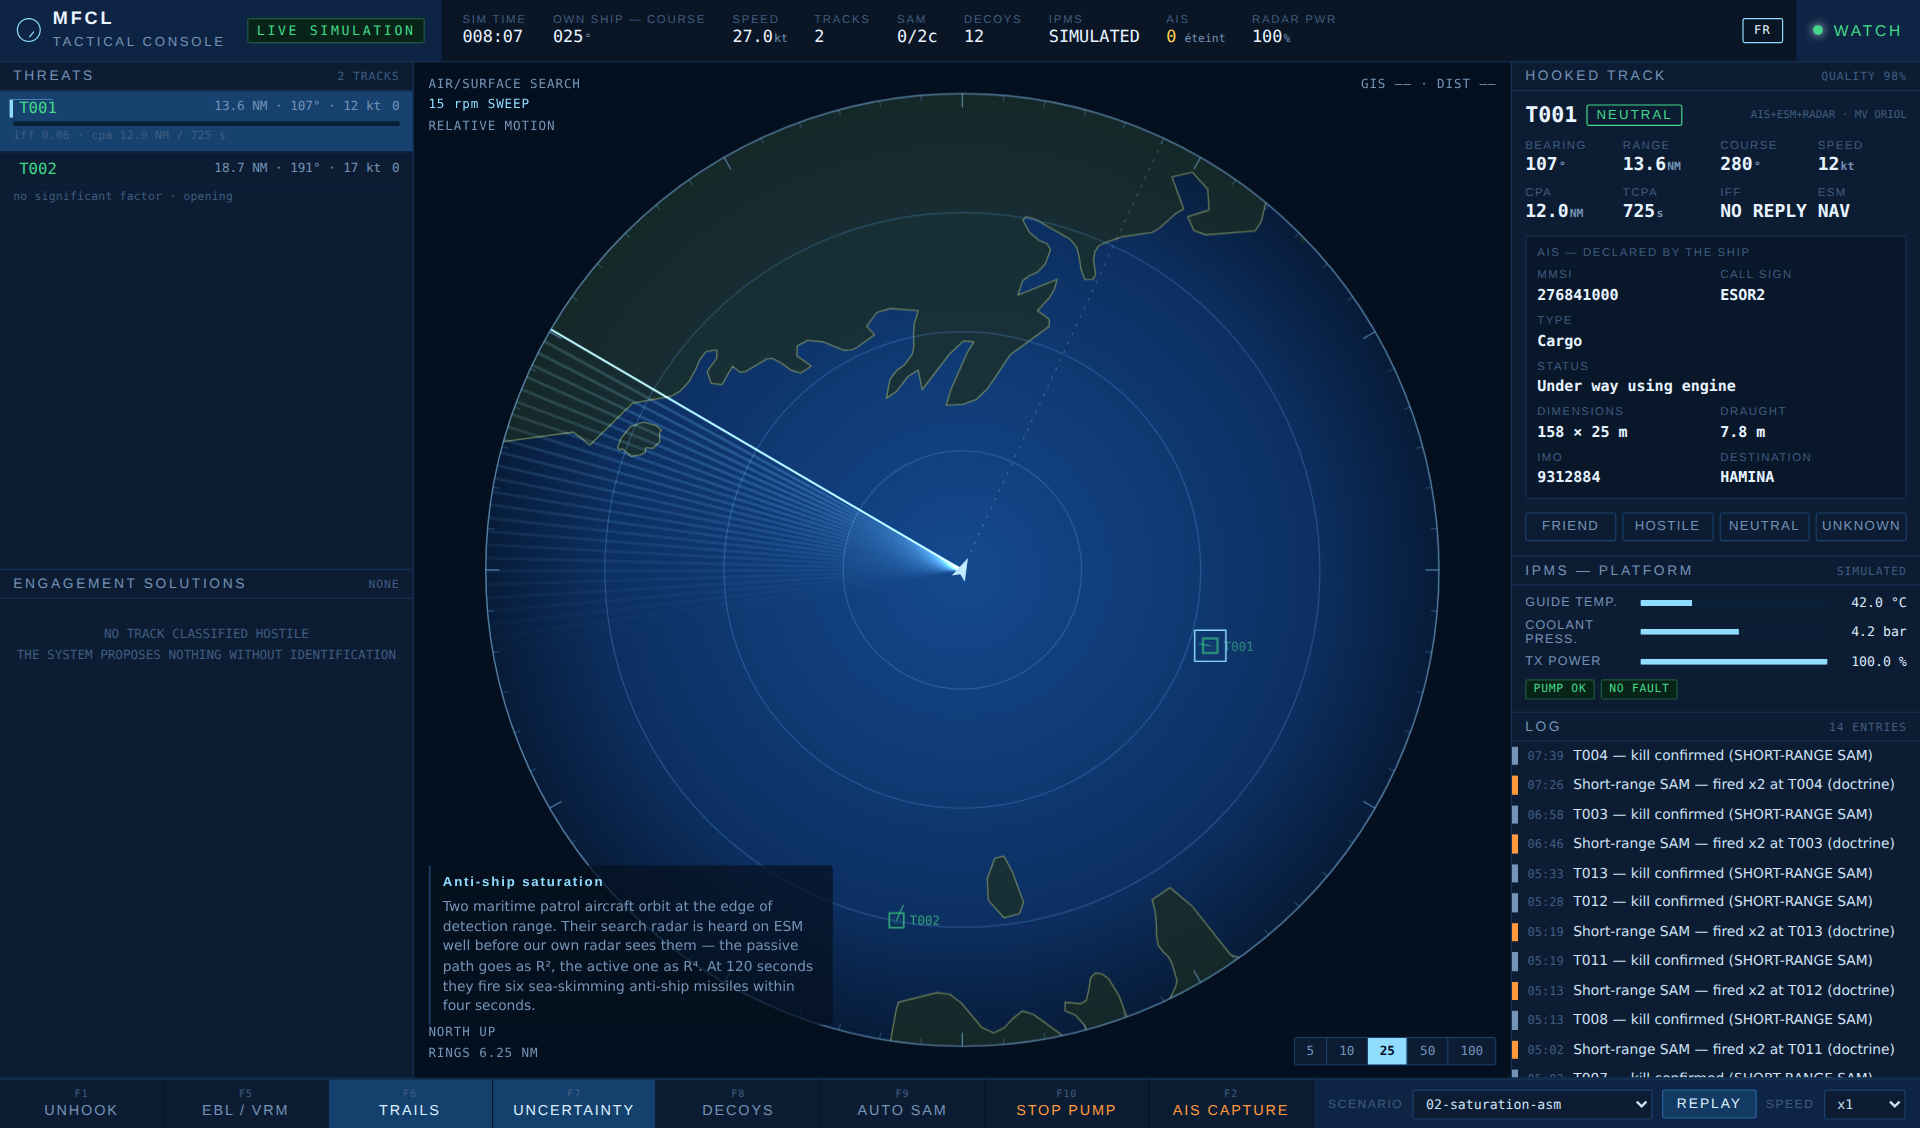
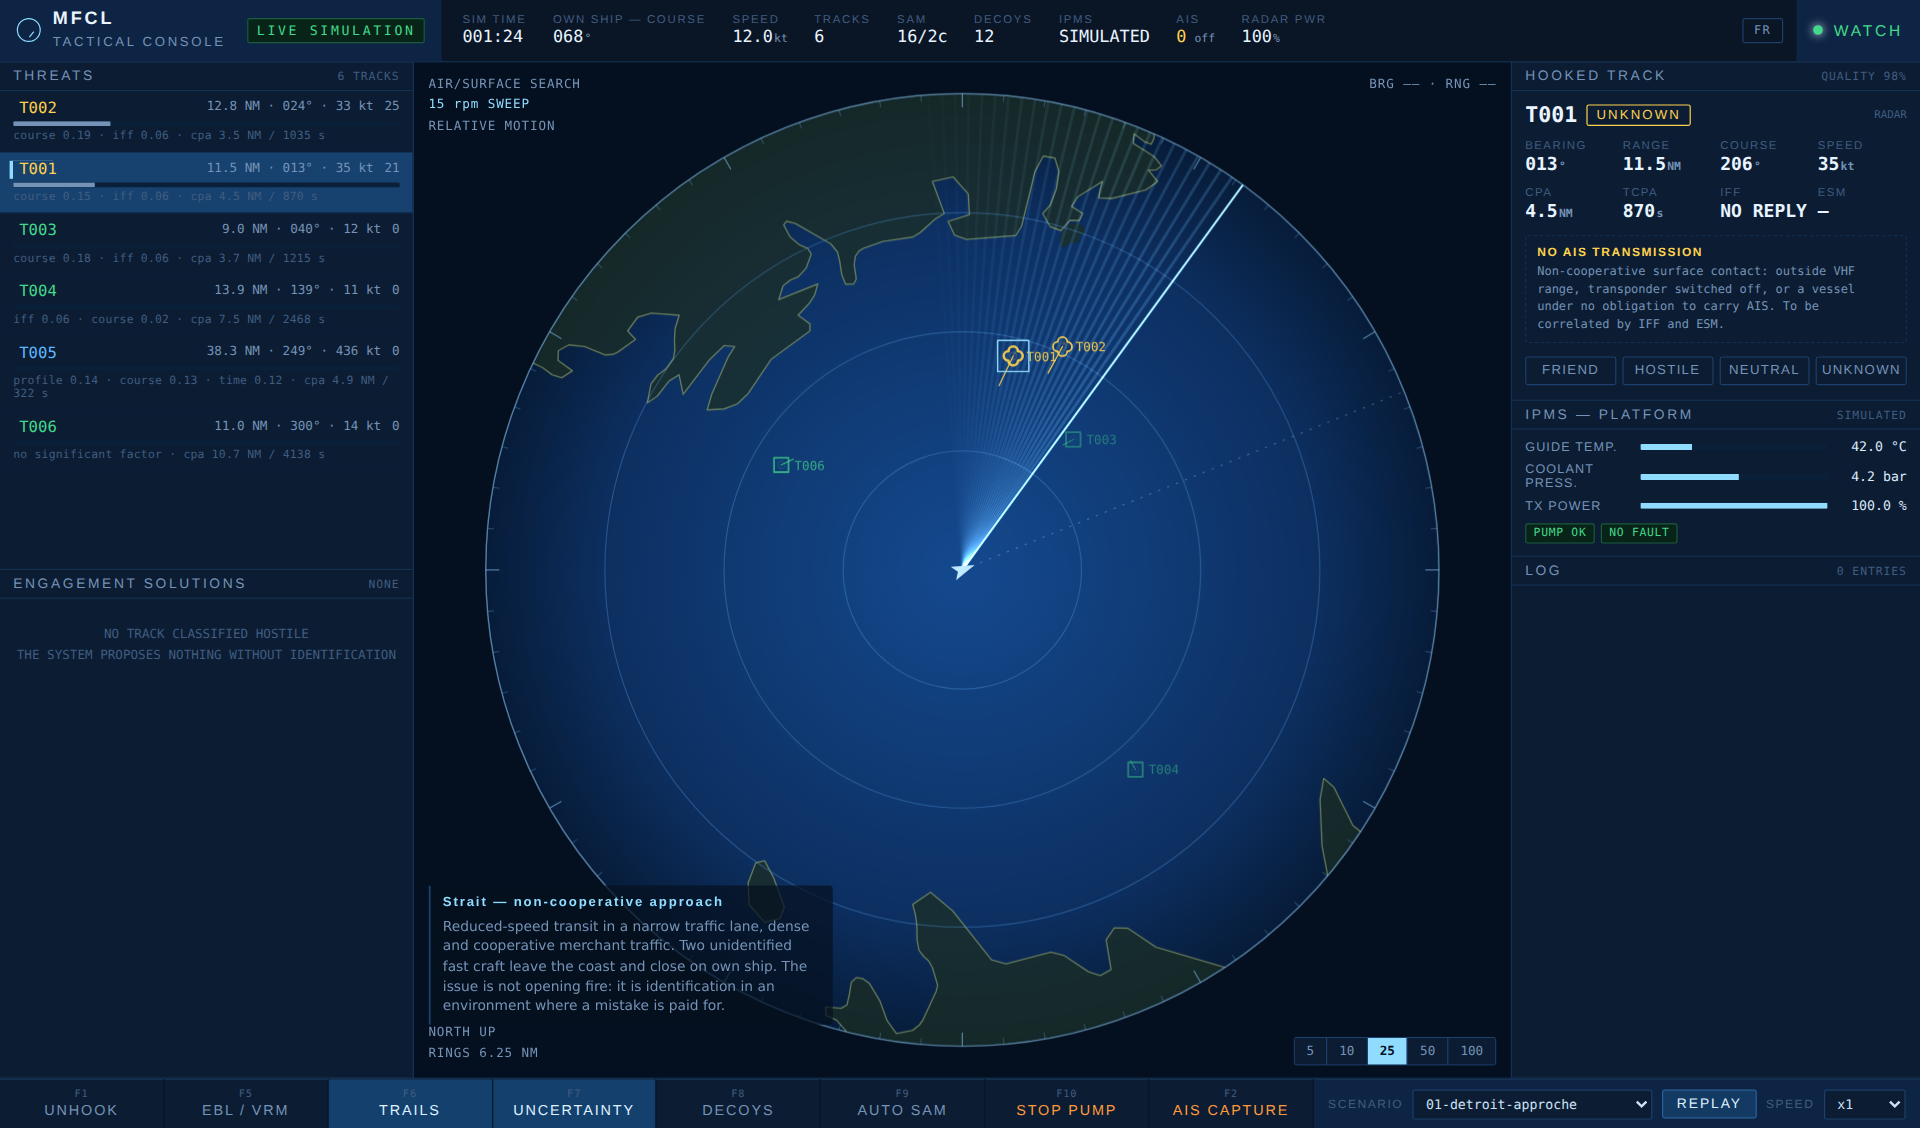
Ouvre la console en anglais par défaut
L'anglais est la langue de travail du domaine, et la console est faite pour
être ouverte par n'importe qui. Elle ne suit plus la langue du navigateur :
elle part en anglais quelle qu'elle soit.

Le bouton du bandeau bascule en français, et ce choix explicite l'emporte
ensuite — il est mémorisé et survit au rechargement.

Vérifié en locales fr-FR, en-GB et de-DE : anglais dans les trois cas, et le
passage au français tient après rechargement.

Claude-Session: https://claude.ai/code/session_01FF1knuXoSq6ULYLskkG3eu

diff --git a/dist/console-artifact.html b/dist/console-artifact.html
@@ -731,8 +731,11 @@ const L = {
   },
 };
 
-let LANG = (localStorage.getItem("cms-lang")
-            || (navigator.language||"fr").slice(0,2)) === "en" ? "en" : "fr";
+/* Anglais par défaut, quelle que soit la langue du navigateur : la console
+   est faite pour être ouverte par n'importe qui, et l'anglais est la langue
+   de travail du domaine. Le choix explicite de l'opérateur l'emporte et
+   survit au rechargement. */
+let LANG = localStorage.getItem("cms-lang") === "fr" ? "fr" : "en";
 
 /* Le français est sa propre clé : un libellé non traduit se voit. */
 const t = s => (LANG === "en" && EN[s] !== undefined) ? EN[s] : s;

diff --git a/web/index.html b/web/index.html
@@ -479,8 +479,11 @@ const L = {
   },
 };
 
-let LANG = (localStorage.getItem("cms-lang")
-            || (navigator.language||"fr").slice(0,2)) === "en" ? "en" : "fr";
+/* Anglais par défaut, quelle que soit la langue du navigateur : la console
+   est faite pour être ouverte par n'importe qui, et l'anglais est la langue
+   de travail du domaine. Le choix explicite de l'opérateur l'emporte et
+   survit au rechargement. */
+let LANG = localStorage.getItem("cms-lang") === "fr" ? "fr" : "en";
 
 /* Le français est sa propre clé : un libellé non traduit se voit. */
 const t = s => (LANG === "en" && EN[s] !== undefined) ? EN[s] : s;

diff --git a/README.md b/README.md
@@ -404,8 +404,9 @@ duplication de code entre la version connectée et la version hors ligne.
 
 ### Langue
 
-La console bascule entre français et anglais par le bouton du bandeau, ou
-suit la langue du navigateur au premier chargement. Le choix est mémorisé.
+La console s'ouvre **en anglais** — c'est la langue de travail du domaine, et
+elle est faite pour être ouverte par n'importe qui. Le bouton du bandeau
+bascule en français ; le choix est mémorisé et survit au rechargement.
 
 Ce n'était pas qu'une affaire de dictionnaire. Le simulateur fabriquait des
 phrases françaises — journal, anomalies, types de navire — pour un écran
